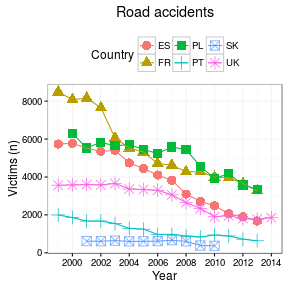
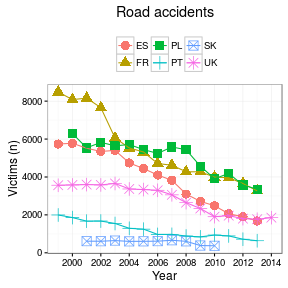
ok

Changed region(s): [[0.3125, 0.125, 0.8438, 0.25]]

diff --git a/vignettes/2015-RJournal/lahti-huovari-kainu-biecek.tex b/vignettes/2015-RJournal/lahti-huovari-kainu-biecek.tex
@@ -178,7 +178,8 @@ t1 <- get_eurostat("tsdtr420",
 ggplot(t1, aes(x = time, y = values, color=Country, group=Country, shape=Country)) +
   geom_point(size=4) + 
   geom_line() + theme_bw() + ggtitle("Road accidents") +
-  xlab("Year") + ylab("Victims (n)") + theme(legend.position="top")
+  xlab("Year") + ylab("Victims (n)") + 
+  theme(legend.position="top", legend.title = element_blank())   
 \end{example}
 
 \begin{figure}

diff --git a/vignettes/2015-RJournal/lahti-huovari-kainu-biecek.md b/vignettes/2015-RJournal/lahti-huovari-kainu-biecek.md
@@ -171,14 +171,11 @@ The original detailed treatment of this example is provided in the related
 t1 <- get_eurostat("tsdtr420", 
   filters = list(geo = c("UK", "SK", "FR", "PL", "ES", "PT"))) 
 
-ggplot(t1, aes(x = time, y = values, color=Country, group=Country, shape=Country)) +
+ggplot(t1, aes(x = time, y = values, color=geo, group=geo, shape=geo)) +
   geom_point(size=4) + 
-  geom_line() + theme_bw() + ggtitle("Road accidents")+
-  xlab("Year") + ylab("Victims (n)") + theme(legend.position="top")
-```
-
-```
-## Error in eval(expr, envir, enclos): object 'Country' not found
+  geom_line() + theme_bw() + ggtitle("Road accidents") +
+  xlab("Year") + ylab("Victims (n)") +
+  theme(legend.position="top", legend.title = element_blank()) 
 ```
 
 ![plot of chunk 2015-manu-roadacc](./2015-manu-roadacc-1.png)
